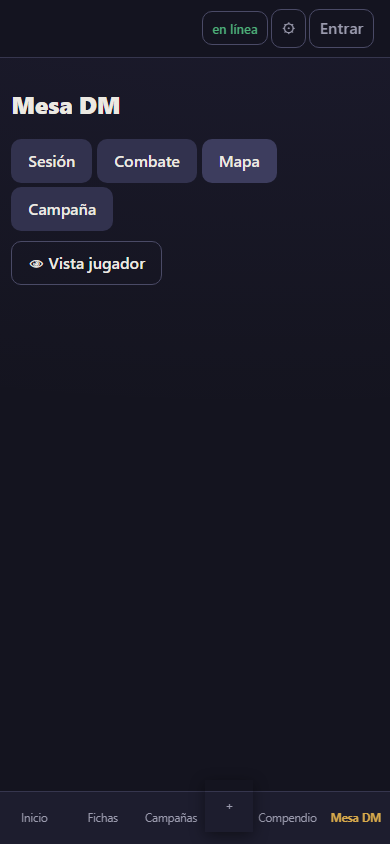
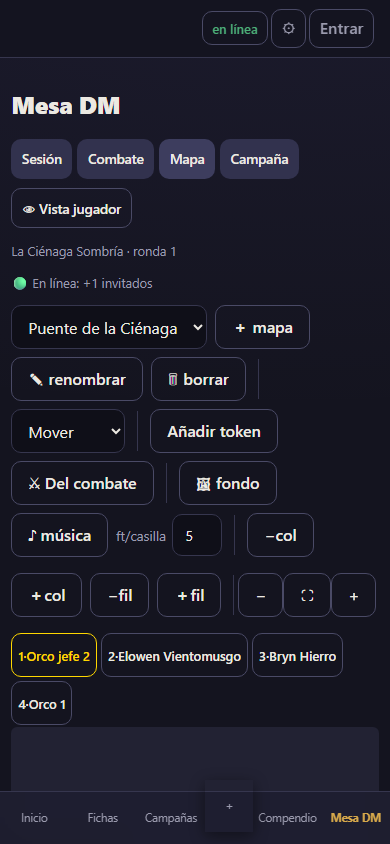
fix(ux): nav DM compacto en movil + diffs de entidad traducidas
- sidebar DM en <1000px: pildoras mas compactas, antes 5 controles
  apilados comian un tercio de la pantalla
- 'Vista jugador: ON' -> 'Jugador: ON' (desbordaba la columna)
- mas claves search.field.* para la lista 'difieren' de la entidad
  (area of effect, higher level, material, classes…)

Generated with [Devin](https://devin.ai)

diff --git a/frontend/src/i18n.jsx b/frontend/src/i18n.jsx
@@ -128,7 +128,7 @@ es: {
   'dm.difficulty': 'Dificultad de encuentro',
   'dm.entities': 'Entidades de campaña',
   'dm.feed': 'Tiradas de la mesa', 'dm.playerView': '👁 Vista jugador',
-  'dm.playerViewOn': '🙈 Vista jugador: ON',
+  'dm.playerViewOn': '🙈 Jugador: ON',
   'dm.exportvtt': 'Exportar VTT', 'dm.reveal': 'Revelar',
   'dm.condition': 'Condición',
   'dm.allRolls': 'todas','dm.sessions': 'Sesiones y preparación',
@@ -706,6 +706,17 @@ es: {
   'search.field.rarity': 'rareza',
   'search.field.casting_time': 'tiempo',
   'search.field.hit_points': 'PG',
+  'search.field.area_of_effect': 'área',
+  'search.field.classes': 'clases',
+  'search.field.subclasses': 'subclases',
+  'search.field.damage': 'daño',
+  'search.field.dc': 'CD',
+  'search.field.description': 'descripción',
+  'search.field.higher_level': 'niveles sup.',
+  'search.field.material': 'material',
+  'search.field.components': 'componentes',
+  'search.field.range': 'alcance',
+  'search.field.duration': 'duración',
   // tipos de entidad del corpus (buscador, paleta, detalle)
   'etype.spell': 'conjuro',
   'etype.monster': 'monstruo',
@@ -1155,7 +1166,7 @@ en: {
   'dm.difficulty': 'Encounter difficulty',
   'dm.entities': 'Campaign entities',
   'dm.feed': 'Table rolls', 'dm.playerView': '👁 Player view',
-  'dm.playerViewOn': '🙈 Player view: ON',
+  'dm.playerViewOn': '🙈 Player: ON',
   'dm.exportvtt': 'Export VTT', 'dm.reveal': 'Reveal',
   'dm.condition': 'Condition',
   'dm.allRolls': 'all','dm.sessions': 'Sessions & prep',
@@ -1732,6 +1743,17 @@ en: {
   'search.field.rarity': 'rarity',
   'search.field.casting_time': 'casting',
   'search.field.hit_points': 'HP',
+  'search.field.area_of_effect': 'area',
+  'search.field.classes': 'classes',
+  'search.field.subclasses': 'subclasses',
+  'search.field.damage': 'damage',
+  'search.field.dc': 'DC',
+  'search.field.description': 'description',
+  'search.field.higher_level': 'higher level',
+  'search.field.material': 'material',
+  'search.field.components': 'components',
+  'search.field.range': 'range',
+  'search.field.duration': 'duration',
   'etype.spell': 'spell',
   'etype.monster': 'monster',
   'etype.item': 'item',

diff --git a/frontend/src/index.css b/frontend/src/index.css
@@ -783,6 +783,16 @@ main.dm { max-width: 1440px; }
     background: var(--card);
   }
 }
+/* móvil: píldoras compactas — 5 controles a 44px+gap comían ~1/3 de
+   pantalla; sigue siendo tocable (~40px) y cabe en menos filas */
+@media (max-width: 999px) {
+  .dm-side nav button {
+    padding: .4rem .6rem; font-size: .85rem; min-height: 40px;
+  }
+  .dm-side > button.ghost {
+    font-size: .85rem; padding: .35rem .6rem; min-height: 40px;
+  }
+}
 @media (min-width: 1000px) {
   .dm-combat-grid {
     display: grid;
